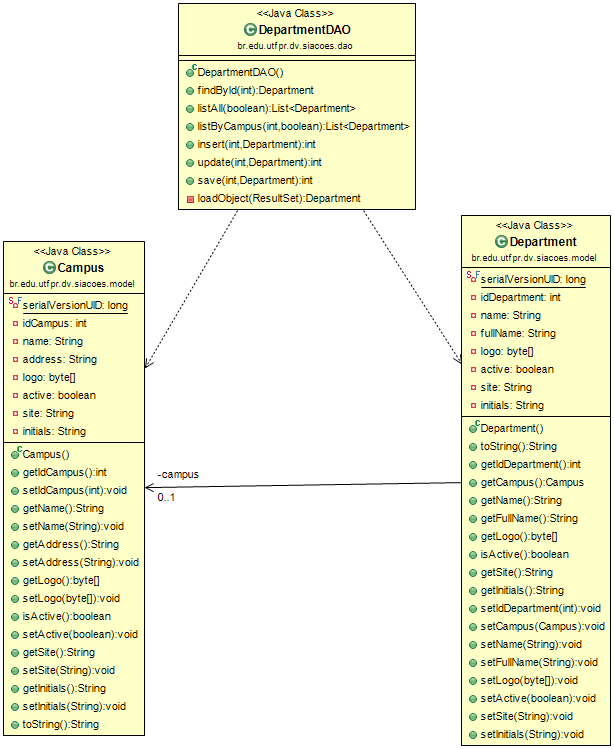
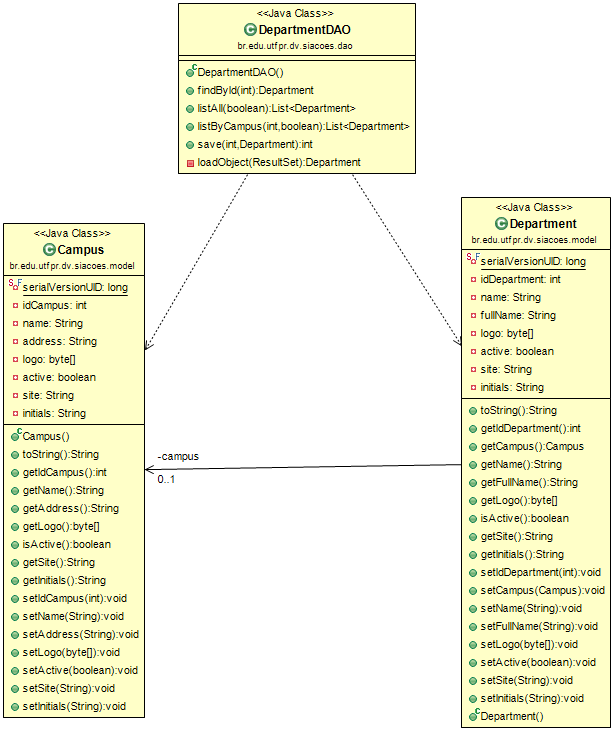
add a annotation @NoArgsConstructor para as classes Campus e Department, a fim de criar os métodos construtores de ambas, sem argumentos.

diff --git a/src/main/java/br/edu/utfpr/dv/siacoes/model/Department.java b/src/main/java/br/edu/utfpr/dv/siacoes/model/Department.java
@@ -6,6 +6,7 @@ import lombok.*;
 
 @ToString(onlyExplicitlyIncluded = true)
 @Getter @Setter
+@NoArgsConstructor
 public class Department implements Serializable {
 	
 	private static final long serialVersionUID = 1L;

diff --git a/src/main/java/br/edu/utfpr/dv/siacoes/model/Campus.java b/src/main/java/br/edu/utfpr/dv/siacoes/model/Campus.java
@@ -6,6 +6,7 @@ import lombok.*;
 
 @ToString(onlyExplicitlyIncluded = true)
 @Getter @Setter
+@NoArgsConstructor
 public class Campus implements Serializable {
 	
 	private static final long serialVersionUID = 1L;
